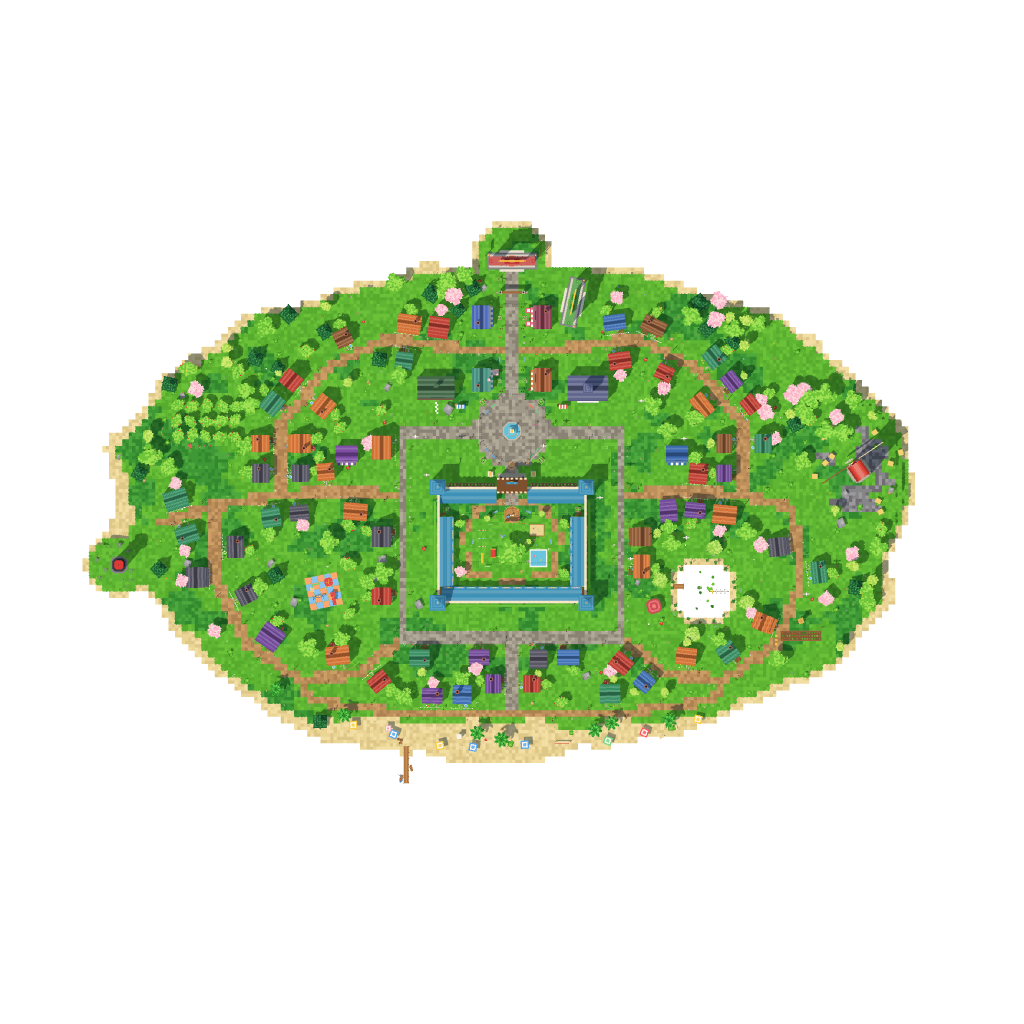
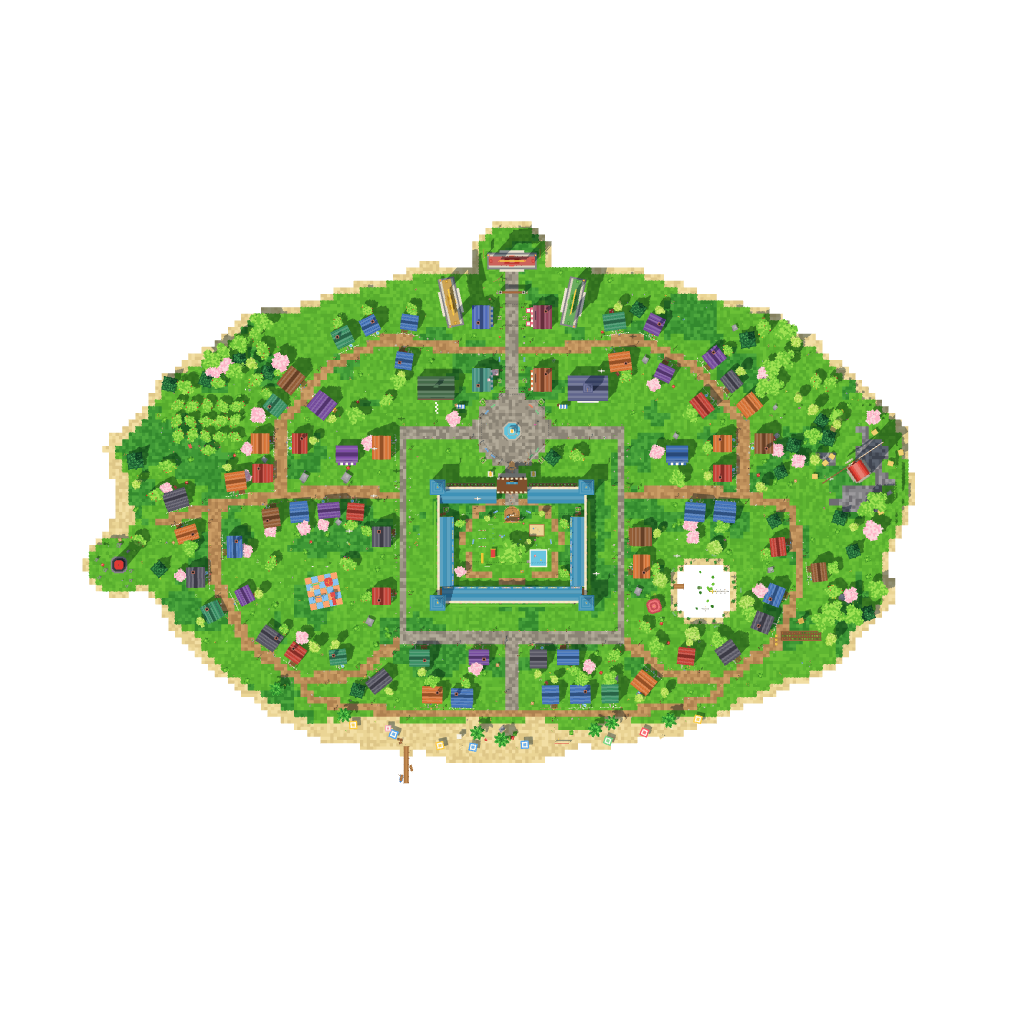
Ilha do Ranking no mapa e no minimapa, foto de cima da ilha e da Pawville nova
- MAPA: quadrinho "Ranking" no canto de cima (GO leva até a ilha) e desenho da ilha com os
  portais no minimapa (UI/WorldMap, UI/MapMenu)
- Foto de cima da Ilha do Ranking (Imagens/Mapa/rank.png, MapTiles + chave no PUBLICAR.ps1) e
  foto da Pawville refeita com o portal dourado
- Prévia: flag click_<Nome> no hud_dump; teste das novidades confere a foto do mapa (287 ok)

Claude-Session: https://claude.ai/code/session_01QQARcAYsU5JRnfzY9D8o4A

diff --git a/DogFighterSimulator/tools/hud_preview/hud_dump.py b/DogFighterSimulator/tools/hud_preview/hud_dump.py
@@ -84,6 +84,7 @@ parts.append(module('GuideTour', os.path.join(SRC, 'client', 'Systems', 'GuideTo
 parts.append(module('Starter', os.path.join(SRC, 'client', 'Systems', 'Starter.lua')))
 parts.append(module('MusicConfig', os.path.join(SRC, 'shared', 'MusicConfig.lua')))
 # 🎨 menus (flag "menu<Nome>": abre o menu de verdade por cima do HUD, ex.: menuDogs, menuInventario, menuLoja)
+# 👆 (2026-10-25) flag "click_<Nome>": aperta o botão com esse nome depois de abrir o menu (ex.: menuMap,click_Map_rank)
 MENU_UI = ['DogsMenu', 'MapMenu', 'ShopMenu', 'Hatch']
 MENU_SYS = ['Inventory', 'StoreMenu', 'Progression', 'Settings', 'Codes', 'Trade', 'Quests', 'Catch',
             'SeasonPassMenu', 'StyleMenu', 'ClanMenu', 'DonateMenu', 'WeekendEvent']  # (2026-10-25: telas novas)
@@ -772,6 +773,23 @@ for flag in pairs(FLAGS) do
 		end)
 		if not okM then
 			print("ERRO|menu " .. name .. "|" .. tostring(errM))
+		end
+	end
+end
+
+-- 👆 "click_<Nome>": aperta o botão com esse nome (depois de abrir o menu), ex.: "menuMap,click_Map_rank"
+for flag in pairs(FLAGS) do
+	local name = string.match(flag, "^click_([%w_]+)$")
+	if name then
+		local button = GUI.playerGui:FindFirstChild(name, true)
+		if button and button:IsA("GuiButton") then
+			button.Activated:Fire()
+			for _ = 1, 3 do
+				SERVICES.RunService.Heartbeat:Fire(1 / 60)
+				SERVICES.RunService.RenderStepped:Fire(1 / 60)
+			end
+		else
+			print("ERRO|click|botão não achado: " .. name)
 		end
 	end
 end

diff --git a/DogFighterSimulator/LEIA_PRIMEIRO_CONTINUAR.md b/DogFighterSimulator/LEIA_PRIMEIRO_CONTINUAR.md
@@ -27,7 +27,10 @@
   - 🏆 ILHA DO RANKING (`Shared/RankIsland`, `World/RankIsland.lua`, centro 0,0,−4300): os 6 PLACARES só ficam lá
     (`LeaderboardService` reescrito): Strongest, Weekly Wins, Most Catches, Most Complete Dex, Best Clans (semana) e
     Season Pass. Portais: praça da ilha principal (`MainIsland.RankPortalCFrame`, ângulo 120°) e Pawville
-    (`RankIsland.VILLAGE_PORTAL`, ao lado do fim da rua principal, placa 🏆 RANKING na seta). O chip da ilha no HUD mostra o nome dela.
+    (`RankIsland.VILLAGE_PORTAL`, ao lado do fim da rua principal, placa 🏆 RANKING na seta). O chip da ilha no HUD mostra o nome dela. No MAPA: quadrinho "Ranking" no
+    canto de cima (botão GO → `IslandAction travel rank`) e desenho no minimapa (`UI/WorldMap`); foto de cima
+    `Imagens/Mapa/rank.png` (`MapTiles`, chave `rank` no `$mapKeys` do PUBLICAR). As fotos `main.png` e `village.png`
+    foram refeitas com os portais novos (`tools/preview/map_tiles.py`).
   - ✨ SHINY (`Shared/Variants`): 1 em 500 selvagens nasce shiny (brilho + cor), aviso para o servidor inteiro, continua
     shiny quando capturado (`dog.Shiny`), +15% de força. 🧬 EVOLUIR (`Services/EvolveService`, botão EVOLVE no DOGS):
     3 iguais (mesma espécie e mesma versão) → 1 GOLD (×1.6); 3 GOLD → 1 RAINBOW (×2.5). O novo fica com o MAIOR level
